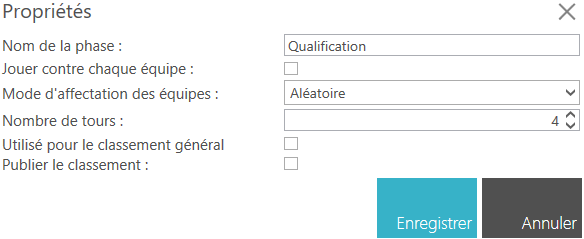
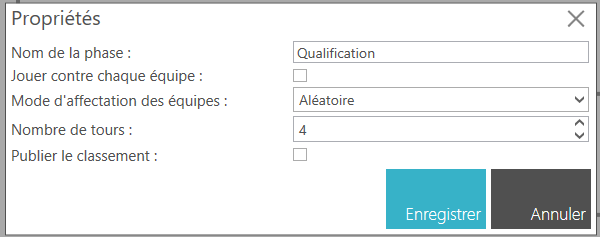
feat: update documentation for new ranking feature

Changed region(s): [[0.0, 0.0, 1.0, 1.0], [0.4623, 0.6498, 0.524, 0.7089], [0.4623, 0.5021, 0.4932, 0.5316]]

diff --git a/docs/work-with-competition/manage-display.md b/docs/work-with-competition/manage-display.md
@@ -1,0 +1,160 @@
+# Gérer les affichages
+
+Dans cette section, vous apprendrez à gérer les affichages durant votre compétitions : Les classmeents, les équipes, les matchs, ... Vous verrez comment configurer les affichages et les diffuser pour offrir une expérience optimale à vos participants et spectateurs.
+
+## Gérer les impressions
+
+SmartContest vous permet d'imprimer différents éléments de votre compétition, tels que les listes d'équipes, les feuilles de match, les classements, etc.
+
+Accédez à la section **Impression** en cliquant sur l'icône ![Impression](../img/work-with-competition/manage-display/1.png). 
+Une fenetre s'ouvre avec les différents éléments que vous pouvez imprimer.
+
+![Section Impression](../img/work-with-competition/manage-display/2.png)
+
+### Imprimer les parties
+
+Pour imprimer les parties, cliquez sur le bouton **Imprimer les parties**. Vous pouvez choisir d'imprimer les parties d'une phase spécifique ou de toutes les phases de la compétition.
+
+![Selection des parties à imprimer](../img/work-with-competition/manage-display/3.png)
+
+Cliquez sur **Valider** pour générer le PDF des parties à imprimer.
+
+![Feuilles de match](../img/work-with-competition/manage-display/4.png)
+
+### Imprimer le classement
+
+Pour imprimer le classement général de la compétition, cliquez sur le bouton **Imprimer le classement**. Vous pouvez choisir d'imprimer un ou plusieurs classements à la fois.
+
+![Selection des classements à imprimer](../img/work-with-competition/manage-display/5.png)
+
+Cliquez sur **Valider** pour générer le PDF des classements à imprimer.
+
+![Classements](../img/work-with-competition/manage-display/6.png)
+
+### Imprimer le classement général
+
+Pour imprimer le classement général de la compétition, cliquez sur le bouton **Imprimer le classement général**.
+
+![Imprimer le classement général](../img/work-with-competition/manage-display/7.png)
+
+### Imprimer le détail
+
+Pour imprimer le détail d'une phase, cliquez sur le bouton **Imprimer le détail**. Vous devez sélectionner la phase dont vous souhaitez imprimer le détail.
+
+![Selection de la phase à imprimer](../img/work-with-competition/manage-display/8.png)
+
+Cliquez sur **Valider** pour générer le PDF du détail de la phase à imprimer.
+
+![Détails](../img/work-with-competition/manage-display/9.png)
+
+### Imprimer la liste des équipes
+
+Pour imprimer la liste des équipes, cliquez sur le bouton **Imprimer la liste des équipes**.
+
+![Liste des équipes](../img/work-with-competition/manage-display/10.png)
+
+### Imprimer des QR-codes
+
+Pour imprimer les QR-codes des équipes, cliquez sur le bouton **Imprimer les QR-codes**.
+
+Vous pouvez choisir d'imprimer les QR-codes de chaque équipe déjà enregistrée ou imprimer un lot de QR-codes pour ensuite les assoicer aux équipes lors de leur enregistrement.
+
+![Options d'impression des QR-codes](../img/work-with-competition/manage-display/11.png)
+
+Si vous choisissez d'imprimer les QR-codes de chaque équipe déjà enregistrée, cliquez sur **Valider** pour générer le PDF des QR-codes à imprimer.
+
+![QR-codes des équipes](../img/work-with-competition/manage-display/12.png)
+
+Si vous choisissez d'imprimer un lot de QR-codes, saisissez les numéro des QR-codes à imprimer puis cliquez sur **Valider** pour générer le PDF des QR-codes à imprimer.
+
+Par exemple, 
+- si vous saisissez "1-10", vous obtiendrez un PDF avec les QR-codes numérotés de 1 à 10 que vous pourrez ensuite associer aux équipes lors de leur enregistrement.
+- si vous saisissez "1-10;13;14", vous obtiendrez un PDF avec les QR-codes numérotés de 1 à 10 ainsi que les QR-codes numérotés 13 et 14 que vous pourrez ensuite associer aux équipes lors de leur enregistrement.
+
+![Lot de QR-codes](../img/work-with-competition/manage-display/13.png)
+
+!!! note
+    Les QR-codes sont générés avec un numéro unique qui peut être associé à une équipe lors de son enregistrement. Cela permet aux équipes de suivre facilement leur progression dans la compétition en scannant leur QR-code avec leur smartphone.
+
+## Gérer l'affichage dynamique (affichage secondaire)
+
+SmartContest vous permet de diffuser un affichage dynamique (affichage secondaire) pour offrir une expérience immersive à vos participants en utilisant un écran dédié ou un projecteur.
+
+Accédez à la section **Affichage dynamique** en cliquant sur l'icône ![Affichage dynamique](../img/work-with-competition/manage-display/14.png).
+Une fenetre s'ouvre avec les différents éléments que vous pouvez afficher.
+
+Cochez la case **Afficher sur un écran secondaire** pour activer la diffusion de l'affichage dynamique.
+
+![Section Affichage dynamique](../img/work-with-competition/manage-display/15.png)
+
+Une deuxième fenêtre s'ouvrira automatiquement sur votre écran secondaire ou votre projecteur.
+
+![Affichage secondaire](../img/work-with-competition/manage-display/16.png)
+
+!!! note
+    - Vous pouvez faire glisser la fenêtre de l'affichage dynamique sur votre écran secondaire ou votre projecteur pour la positionner comme vous le souhaitez.
+    - Vous pouvez passer en plein écran sur votre écran secondaire ou votre projecteur pour une expérience immersive en appuyant simultanément sur les touches **CTRL + F** de votre clavier.
+
+L'affichage dynamique se met à jour automatiquement en temps réel pour refléter les changements dans votre compétition, tels que les scores des matchs, les classements, les équipes, etc.
+Vous pouvez afficher :
+
+- Les équipes enregistrés
+- Les matchs en cours
+- L'organisation de la compétition
+- Les classements
+- Les sponsors
+
+Vous pouvez personnaliser l'affichage dynamique en configurant :
+
+- La vitesse de défilement des éléments affichés.
+    ![Vitesse de défilement](../img/work-with-competition/manage-display/17.png)
+
+- Le zoom de l'affichage.
+    ![Zoom de l'affichage](../img/work-with-competition/manage-display/18.png)
+
+- Les couleurs de l'affichage.
+    ![Couleurs de l'affichage](../img/work-with-competition/manage-display/19.png)
+
+Vous pouvez aussi :
+
+- **Arrêter le défilement automatique**,
+- **Avancer manuellement le défilement** et
+- **Relancer le défilement automatique**.
+
+### Afficher les équipes enregistrées
+
+Cliquez sur le bouton **Afficher les équipes enregistrées** pour afficher la liste des équipes déjà enregistrées dans votre compétition.
+
+![Affichage des équipes enregistrées](../img/work-with-competition/manage-display/20.png)
+
+### Afficher l'organisation de la compétition
+
+Cliquez sur le bouton **Afficher l'organisation de la compétition** pour afficher l'organisation de votre compétition.
+
+![Affichage de l'organisation de la compétition](../img/work-with-competition/manage-display/21.png)
+
+### Afficher les matchs en cours
+
+Cliquez sur le bouton **Afficher les [matchs/parties/rencontres] en cours** pour afficher la liste des matchs en cours dans votre compétition.
+
+![Affichage des matchs en cours](../img/work-with-competition/manage-display/22.png)
+
+### Afficher les classements
+
+1. Cliquez sur le bouton **Afficher les classements** puis sélectionnez les classements que vous souhaitez afficher.
+
+    ![selection des classements](../img/work-with-competition/manage-display/5.png)
+
+2. Cliquez sur **Valider** pour afficher les classements sélectionnés.
+
+    ![Affichage des classements](../img/work-with-competition/manage-display/23.png)
+
+### Afficher les sponsors
+
+1. Sélectionnez l'emplacement où se trouvent les visuels de vos sponsors en cliquant sur **Parcourir**.
+
+    ![Selection du visuels des sponsors](../img/work-with-competition/manage-display/24.png)
+
+2. Cliquez sur le bouton **Afficher les sponsors** pour afficher la liste des sponsors de votre compétition.
+
+![Affichage des sponsors](../img/work-with-competition/manage-display/25.png)

diff --git a/docs/work-with-competition/index.md b/docs/work-with-competition/index.md
@@ -98,3 +98,4 @@ Sinon, votre compétition se clôture.
 - [Gérer les participants](manage-participant.md)
 - [Gérer les matchs](manage-contest.md)
 - [Concevoir une compétition](design-competition.md)
+- [Gérer les affichages](manage-display.md)
